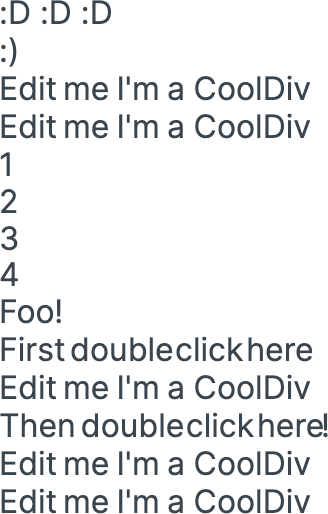
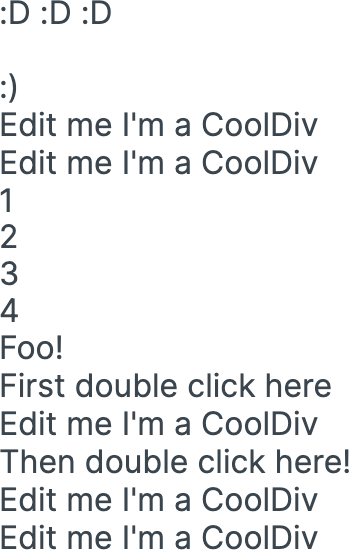
[ecu] Edit text on component App

diff --git a/app/src/App.tsx b/app/src/App.tsx
@@ -43,7 +43,7 @@ function App(props: AppPropsType) {
         data-ecu="la53NIPkq6:0">
         <Text // ecu-display-name Text!
           data-ecu="la53NIPkq6:0_0">
-          {':D :D :D\n'}
+          :D :D :D
         </Text>
       </Div>
       <Text data-ecu="la53NIPkq6:1">
